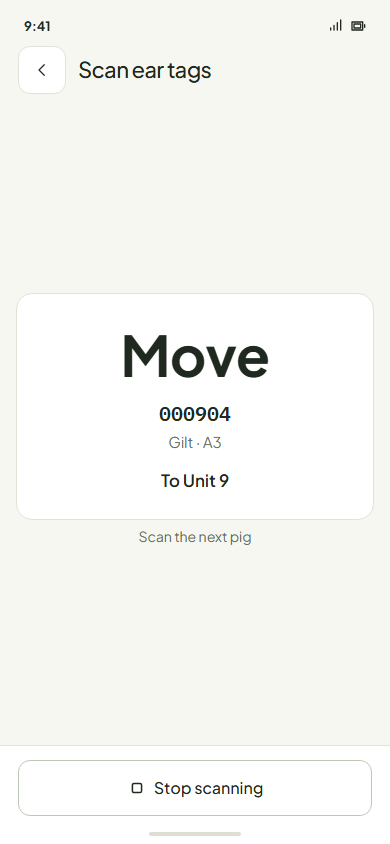
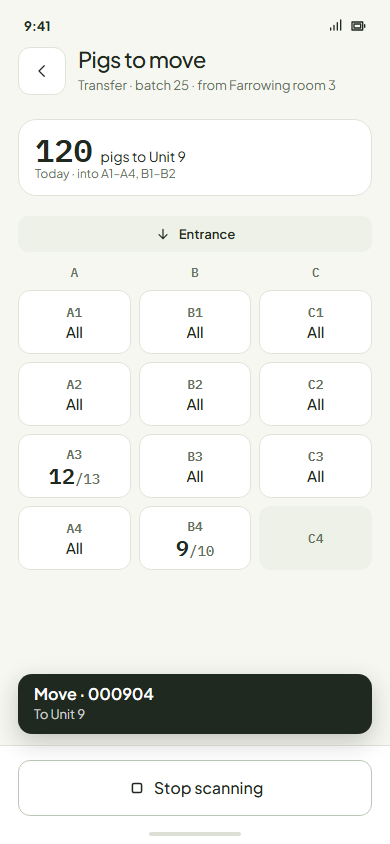
Count: Move or stay is a toast over the Pigs to move map while scanning (Stop scanning in the footer), not a page

diff --git a/features/count/PRD.md b/features/count/PRD.md
@@ -31,7 +31,7 @@ Reviewed on the Claude Design canvas ([canvas.md](canvas.md)). Ruled and redrawn
 - **Recount is the unit's, with a balance sheet** (owner, 2026-11-03; supersedes the per-pen Review count). *Recount · Unit 7* lists the unit's pens, each with what was found or *Not counted yet*; tapping a pen opens the pen count (all pigs, then ear tags by search or scan), whose *Done* returns to the list. *Count* on a pen page opens the same recount, straight into that pen. *Finish recount* shows the **unit balance sheet**: on record against counted; pigs found in another pen, which move; pigs without ear tags netted pen against pen (D4 −1, D5 +1: balanced), so pigs moved and not updated, or piglets shuffled between pens, stop being losses; and only what the unit can't account for (000803, found in no pen) goes on the batch's balancing sheet. *Save recount*. ([mock 10](mock/mock-10-unit-recount.png), [11](mock/mock-11-unit-balance.png).)
 - **A recount that changes nothing just saves; the balance sheet opens only when the unit's total changed** (owner, 2026-11-03). It is one ledger card in the owner's order: *Counted 60* at the top; each change a door with its signed figure in a tonal tile (*Found from other units +2*, *Not found −1*, the one amber, to the balancing sheet); *On record 59* at the bottom ([11](mock/mock-11-unit-balance.png); each line opens its pigs: [11b](mock/mock-11b-found.png), [11c](mock/mock-11c-not-found.png)). Pigs without ear tags counted in a different pen of the unit than recorded are normal work: the pens are updated and nothing is said. **The recount is drawn on the unit's pen map** (owner: "we should use pen view"): counted pens turn done-green with their count; a pen with pigs still to count shows what the record says; an empty pen says *Empty*; any pen can be counted, an empty one too; a pen not counted when you finish keeps its record (the footer says so: *D5 not counted · Keeps 38 if you finish*) ([10](mock/mock-10-unit-recount.png)).
 - **The pen count asks two questions** (owner, 2026-11-03: titles are questions): *How many pigs are in D4?* (the stepper), then *Which tagged pigs are here?* with *4 found* beside it (search or scan, ticked rows).
-- **Receiving is two parts: the plan, then the count** (owner, 2026-11-03; supersedes receiving pen by pen). *Receive pigs* is the unit's pen map, full screen (owner, 2026-11-03, replacing the task card): the header, the legend and the pens, and *Scan* the only control in the footer. Back goes to the transfer's overview, where the crew switches unit and ends the task. The map has no row numbers on Count's screens (every tile carries its code; column letters stay). The pen map, drawn from its Farm layout on PenMap (PR 307: Unit 9 is three lanes of four weaner pens with three sick pens by the door, met first; a sick pen's tile is shorter, as its pen is): capacity is said once per pen type (*Pens hold 15 · sick 4*); an empty pen shows only its code; a pen with pigs shows how many and, until it is counted, a fill line for how full it is (owner, 2026-11-03: *9/15* on every tile was an information explosion); the planned pens are outlined, a suggestion only (no number per pen, nothing owed to a pen); pigs may go into any pen. Nothing is recorded while pigs are moving. Once they are in, tap any pen to count it (all pigs, then ear tags); a counted pen turns done-green, a pen off the plan too. What was counted is where the pigs are. *Scan* in the dock keeps the map on screen and the footer takes over, as on Farrowing's Scan page (owner, 2026-11-03: the control stays where Scan was, no scan bar at the top): *Stop scanning* while listening; scan one pig or a batch and the footer is the count and their tags with *Clear* (*3 scanned · tap their pen*); tapping a pen puts them in it (*3 pigs put in B2*) and the footer is *Stop scanning* again; this is how sows arrive, each in whichever crate or pen she reached ([14s](mock/mock-14s-receive-scan.png), [14t](mock/mock-14t-receive-placed.png); [13](mock/mock-13-receive-plan.png), [14](mock/mock-14-receive-count.png), [12](mock/mock-12-receive-pen.png)). The map tile showing pigs and a fill line, outlined when planned, is a proposed PenMap variant (*room*). **Pigs to move is the source room's pen map, and a glance** (owner, 2026-11-03: the crew looks once and puts the phone away; no *Receive in Unit 9* button, the move out records nothing; where to on top; a pen that empties says *All*, a pen moving some says *12/13* with the 12 that move big (no icon, no key, no list of pigs that stay); the whole flow is proposed in [transfer-flow.md](transfer-flow.md)): a pen whose pigs all go shows the move glyph (not a tick, which reads as done); a pen sending some shows *12/13*; tapping it opens the pen with a toggle, *Move · 12* and *Stay · 1* ([9](mock/mock-9-transfer-out.png), [9b](mock/mock-9b-pen-move.png), [9c](mock/mock-9c-pen-stay.png)). **Move or stay? by scan** (owner, 2026-11-05): *Scan* in the footer of Pigs to move and of a pen opens Farrowing's *Scan ear tags* page; each read answers where the hint was, in one big word: *Move* with where to (white), or *Stay* with the pen she keeps (amber: she is the one to hold back); the next read replaces it, so the crew sorts a pen without closing anything, and *Stop scanning* stays in the footer ([9s](mock/mock-9s-scan-listening.png), [9m](mock/mock-9m-scan-move.png), [9t](mock/mock-9t-scan-stay.png)). A pig not on this move reads *Stay* too, with where she belongs.
+- **Receiving is two parts: the plan, then the count** (owner, 2026-11-03; supersedes receiving pen by pen). *Receive pigs* is the unit's pen map, full screen (owner, 2026-11-03, replacing the task card): the header, the legend and the pens, and *Scan* the only control in the footer. Back goes to the transfer's overview, where the crew switches unit and ends the task. The map has no row numbers on Count's screens (every tile carries its code; column letters stay). The pen map, drawn from its Farm layout on PenMap (PR 307: Unit 9 is three lanes of four weaner pens with three sick pens by the door, met first; a sick pen's tile is shorter, as its pen is): capacity is said once per pen type (*Pens hold 15 · sick 4*); an empty pen shows only its code; a pen with pigs shows how many and, until it is counted, a fill line for how full it is (owner, 2026-11-03: *9/15* on every tile was an information explosion); the planned pens are outlined, a suggestion only (no number per pen, nothing owed to a pen); pigs may go into any pen. Nothing is recorded while pigs are moving. Once they are in, tap any pen to count it (all pigs, then ear tags); a counted pen turns done-green, a pen off the plan too. What was counted is where the pigs are. *Scan* in the dock keeps the map on screen and the footer takes over, as on Farrowing's Scan page (owner, 2026-11-03: the control stays where Scan was, no scan bar at the top): *Stop scanning* while listening; scan one pig or a batch and the footer is the count and their tags with *Clear* (*3 scanned · tap their pen*); tapping a pen puts them in it (*3 pigs put in B2*) and the footer is *Stop scanning* again; this is how sows arrive, each in whichever crate or pen she reached ([14s](mock/mock-14s-receive-scan.png), [14t](mock/mock-14t-receive-placed.png); [13](mock/mock-13-receive-plan.png), [14](mock/mock-14-receive-count.png), [12](mock/mock-12-receive-pen.png)). The map tile showing pigs and a fill line, outlined when planned, is a proposed PenMap variant (*room*). **Pigs to move is the source room's pen map, and a glance** (owner, 2026-11-03: the crew looks once and puts the phone away; no *Receive in Unit 9* button, the move out records nothing; where to on top; a pen that empties says *All*, a pen moving some says *12/13* with the 12 that move big (no icon, no key, no list of pigs that stay); the whole flow is proposed in [transfer-flow.md](transfer-flow.md)): a pen whose pigs all go shows the move glyph (not a tick, which reads as done); a pen sending some shows *12/13*; tapping it opens the pen with a toggle, *Move · 12* and *Stay · 1* ([9](mock/mock-9-transfer-out.png), [9b](mock/mock-9b-pen-move.png), [9c](mock/mock-9c-pen-stay.png)). **Move or stay? by scan** (owner, 2026-11-05: a toast, not a page): *Scan* in the footer of Pigs to move and of a pen keeps the map; *Stop scanning* takes the footer, and each read is a toast over the map that leads with the answer: *Move · 000904* / *To Unit 9*, or *Stay · 000901* / *Keep her in A3*; the next read replaces it ([9m](mock/mock-9m-scan-move.png), [9t](mock/mock-9t-scan-stay.png)). A pig not on this move reads *Stay* too, with where she belongs.
 - **Ending the transfer is Farrowing's End task** (owner, 2026-11-03: "look at how we do it for the farrowing end task"). After receiving, the task closes from *End task*: the heading answers (*Ready to end early* / *Ready to end*); one bar over the batch's pigs, then a row per part: *Received* (done) and *Not arrived* (with the amber "!", as *Leave the batch*; the row says what ending does: *Goes on the balancing sheet*). Never *Still to count*: the planned pens are a suggestion, so a pig is either received or not arrived (owner, 2026-11-03). *Not arrived* opens its pigs: those without ID as one number; those with ID in Fostering's *With ID* picker (search and scan in one box, a read ticks). Ticking a pig that turned up makes the footer *Move to*, to put her in a pen; she leaves *Not arrived*. Nothing else on the page (no *When you end*, no second count card; Farrowing has neither); then the hold ([16b](mock/mock-16b-end-early.png), [16d](mock/mock-16d-not-arrived.png), [16e](mock/mock-16e-not-arrived-move.png), [16c](mock/mock-16c-end-ready.png)). The receiving and End task mocks render against a checkout that has Farrowing's room page and End task (PR 294).
 - **Sex and weight of pigs without ear tags** (owner question): recommended kept on the batch (sex split and the last average weight), never per pen, so a move or count never asks for them.
 
